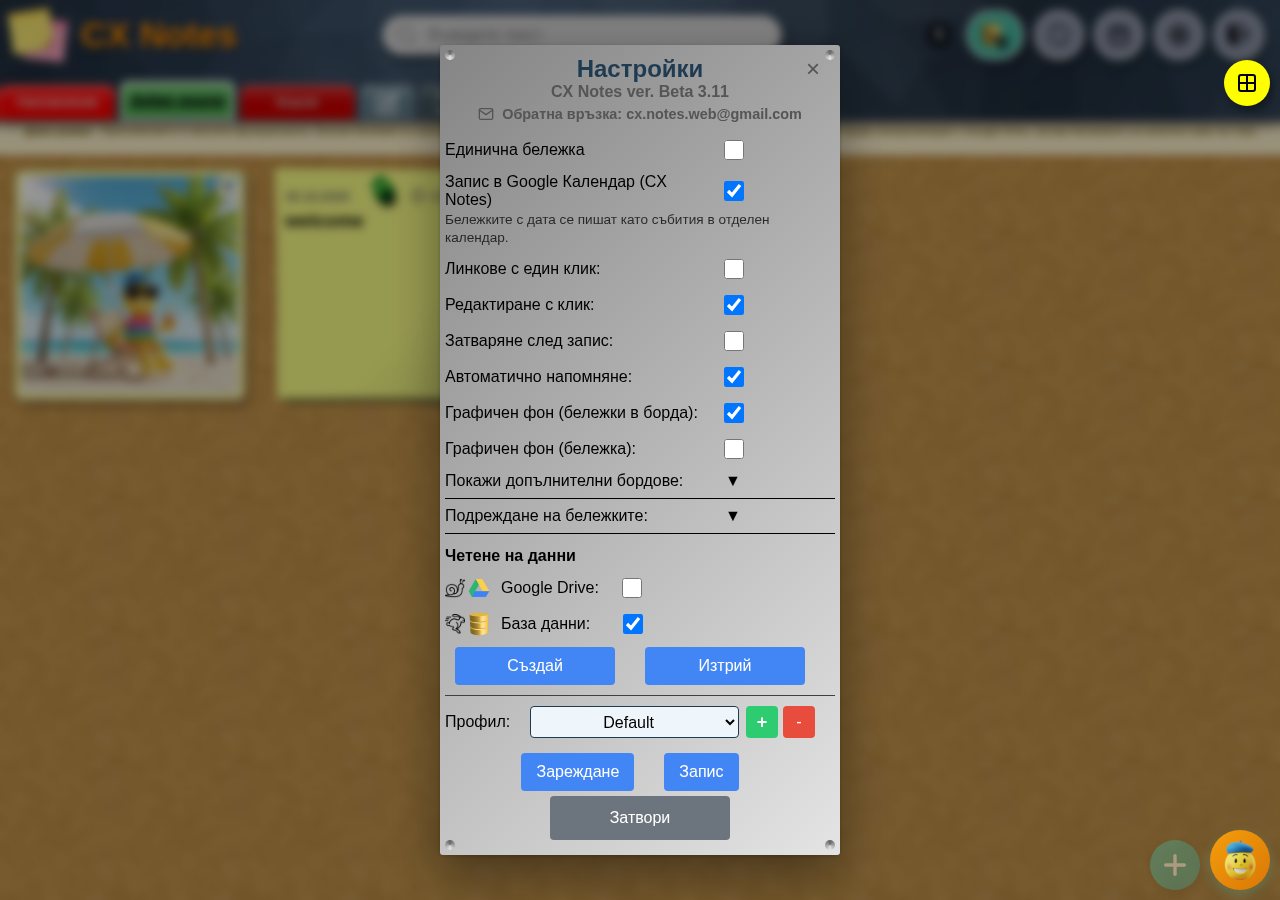
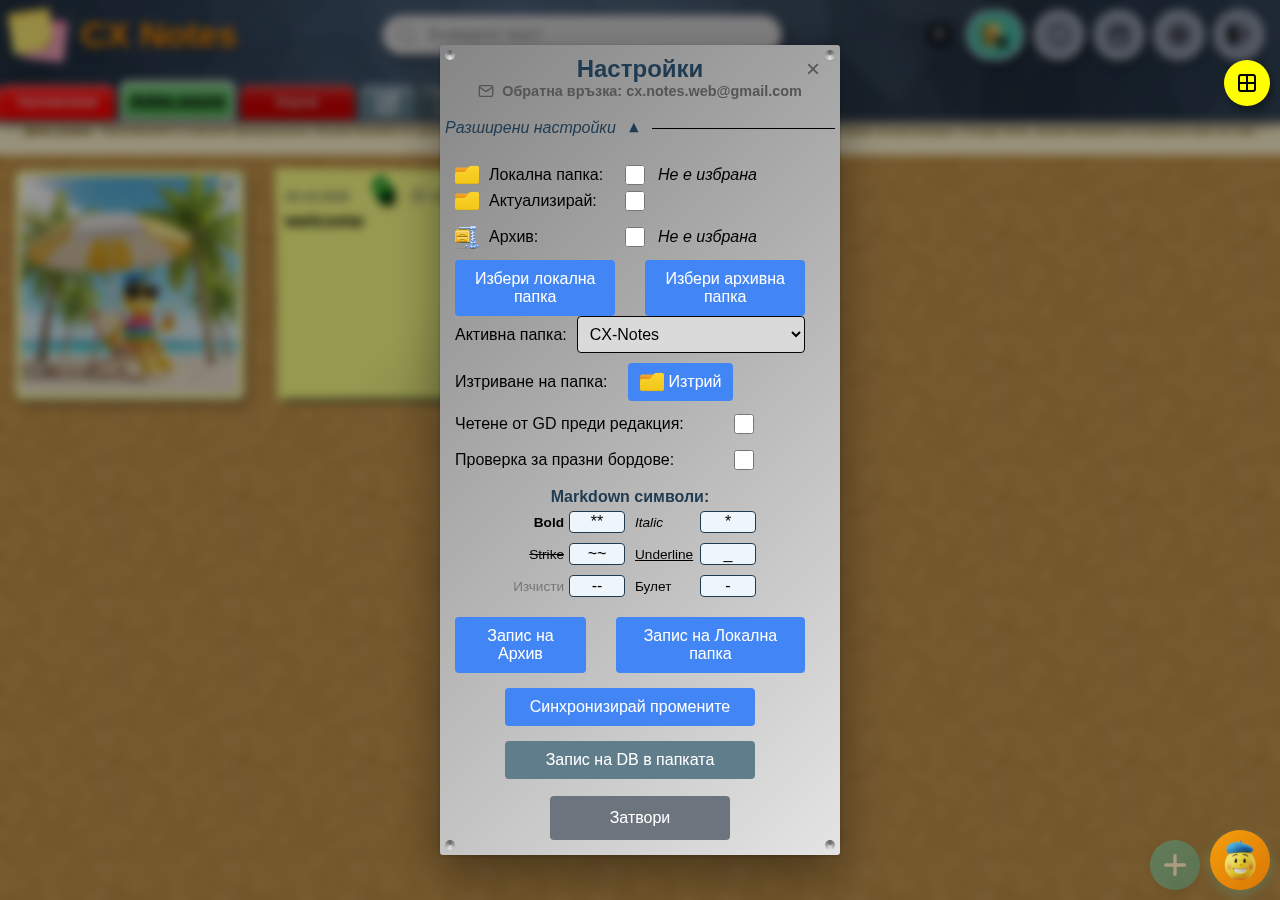
Manual: real advanced settings shot, drop duplicates, add missing gestures
- 10-settings-advanced: taken with the section actually open (Ctrl+click on the title), toast cleared
- removed 06b (byte-identical spare) and 10b (was showing the main list, not the bottom)
- 08-boards-menu now displayed in section 9 instead of only named
- added gestures: assistant transparency, checked-only calculation, scale slider round step,
  Ctrl+click on + for a new board, Ctrl+click on the note title, full screen from the boards square

Changed region(s): [[0.3438, 0.0933, 0.6562, 0.9022]]

diff --git a/docs/manual/CX-Notes-Manual-BG.md b/docs/manual/CX-Notes-Manual-BG.md
@@ -154,7 +154,9 @@
 
 Квадратчето **✎ Нареди** отваря прозореца за борд: избор на борд за редакция, **Изтрий**, **Заглавие**, **Цвят**, **Шрифт**, **Фон** (включително собствена картинка до 3 MB), **Подреди** и превключвател за индивидуална подредба на бележките. Празно заглавие не се приема, както и повторено име.
 
-Менюто с всички бордове (`08-boards-menu.png`) показва плочките в една мрежа — удобно на телефон, когато лентата не се събира.
+Менюто с всички бордове показва плочките в една мрежа — удобно на телефон, когато лентата не се събира.
+
+![Менюто с всички бордове](images/bg/08-boards-menu.png)
 
 ---
 
@@ -204,9 +206,7 @@
 
 В разширените: **Локална папка** (и **Обнови**), **Архив**, избор на папки, **Активна папка** (включително нова папка в Google Drive), **Изтриване на папка** (с изпразване на съдържанието), **Четене от GD преди редакция** и **Проверка за празни бордове**.
 
-Най-долу:
-
-![Долна част на Настройки](images/bg/10b-settings-bottom.png)
+Още в същата секция:
 
 - **Markdown символи** — собствени знаци за удебелен, курсив, задраскан, подчертан, изчистване и булет.
 - **Запис на Архив**, **Запис на Локална папка**, **Синхронизирай промените**, **Запис на DB в папката** — ръчни записи по източници (пазят се предпазни проверки, напр. „Папката не е празна“).
@@ -217,7 +217,7 @@
 
 ![Асистент](images/bg/15-assistant.png)
 
-Кръглият бутон долу вдясно отваря чат с асистента: питаш с думи, той отговаря от базата със знания на приложението и може да изпълни действие (отваряне на настройка, настройка на ред и др.). В заглавната му лента: **↻** презарежда базата със знания, **📑** всички въпроси, **−** минимизира; долу — изчистване и изпращане.
+Кръглият бутон долу вдясно отваря чат с асистента: питаш с думи, той отговаря от базата със знания на приложението и може да изпълни действие (отваряне на настройка, настройка на ред и др.). В заглавната му лента: **↻** презарежда базата със знания, **📑** всички въпроси, **−** минимизира; долу — изчистване и изпращане. С **Ctrl+клик** (на телефон — задържане половин секунда) върху кръглия бутон той става полупрозрачен и не закрива дъската; повторно го връща.
 
 Квадратчето **▶** в лентата с бордовете пуска обиколката отначало; при обиколка върху екрана се появява маска с указания. Затваря се при отваряне на Настройки или с отказа от обиколката.
 
@@ -225,7 +225,7 @@
 
 ![Цял екран](images/bg/16-fullscreen.png)
 
-Квадратчето **⛶** скрива хедъра и лентата, за да остане само дъската; същият бутон връща хедъра. Командите `/7` и `/6` правят същото.
+Квадратчето **⛶** скрива хедъра и лентата, за да остане само дъската; същият бутон връща хедъра. Командите `/7` и `/6` правят същото. Същото прави и **Ctrl+клик** върху плаващото квадратче с иконата на бордовете — сменя режима, без да отваря менюто.
 
 ## 14. Телефон
 
@@ -249,6 +249,12 @@
 - **Плъзгане на карта** мести бележката в борда; **плъзгане на борд** в режим „Нареди“ подрежда бордовете.
 - **Дръжката в долния десен ъгъл на бележката** задава размера на новите бележки; с **Ctrl** — само на тази.
 - **Командите в полето за търсене** (`/?` за списъка).
+- **Ctrl+клик върху „+“** — нов борд, вместо нова бележка.
+- **Ctrl+клик (или задържане) върху „изчисли израз“** в бележка — смята само редовете, отбелязани с **☑**.
+- **Ctrl+клик върху плъзгача за мащаб** в Настройки — мести стойността до следващото кръгло число (10, 20, 30 …).
+- **Ctrl+клик върху заглавието на бележка** в борда — изтрива я; пита за потвърждение и я праща в Кошчето.
+- **Ctrl+клик (или задържане) върху кръглия бутон на Лепчо** — прави го полупрозрачен.
+- **Ctrl+клик върху плаващото квадратче с бордовете** — цял екран, без да отваря менюто.
 - **Демо режим** — `?demo=1` в адреса; `?demo=0` го изключва.
 - **Офлайн старт** — при липса на мрежа приложението предлага работа от вече заредените данни.
 

diff --git a/docs/manual/CX-Notes-Manual-EN.md b/docs/manual/CX-Notes-Manual-EN.md
@@ -154,7 +154,9 @@ The **Trash** tile shows deleted notes. It has a search field (switched on in Se
 
 The **✎ Reorder** square opens the board window: pick a board to edit, **Delete**, **Title**, **Colour**, **Font**, **Background** (including a custom picture up to 3 MB), **Reorder**, and a switch for a custom note order per board. An empty title is refused, and so is a duplicate name.
 
-The all-boards menu (`08-boards-menu.png`) shows the tiles in one grid — convenient on a phone, where the bar does not fit.
+The all-boards menu shows the tiles in one grid — convenient on a phone, where the bar does not fit.
+
+![The all-boards menu](images/en/08-boards-menu.png)
 
 ---
 
@@ -204,9 +206,7 @@ Rows in the main part:
 
 In the advanced part: **Local folder** (with **Update**), **Archive**, folder pickers, **Active folder** (including a new folder in Google Drive), **Delete folder** (with emptying its contents), **Read from GD before edit**, and **Check for empty boards**.
 
-At the bottom:
-
-![Bottom of Settings](images/en/10b-settings-bottom.png)
+Also in the same section:
 
 - **Markdown symbols** — your own characters for bold, italic, strike, underline, clear and bullet.
 - **Save Archive**, **Save Local folder**, **Sync unsaved changes**, **Save DB to folder** — manual writes per source (with safety checks, e.g. "The folder is not empty").
@@ -217,7 +217,7 @@ At the bottom:
 
 ![Assistant](images/en/15-assistant.png)
 
-The round button in the bottom right corner opens a chat with the assistant: you ask in words, it answers from the app's knowledge base and can carry out an action (open a setting, change a row, and so on). Its title bar holds **↻** reload the knowledge base, **📑** all questions, **−** minimise; at the bottom, clear and send.
+The round button in the bottom right corner opens a chat with the assistant: you ask in words, it answers from the app's knowledge base and can carry out an action (open a setting, change a row, and so on). Its title bar holds **↻** reload the knowledge base, **📑** all questions, **−** minimise; at the bottom, clear and send. A **Ctrl+click** on the round button (a half-second hold on a phone) makes it see-through so it does not cover the board; the same again brings it back.
 
 The **▶** square in the board bar restarts the guided tour; during the tour an overlay with instructions appears on the screen. It closes when Settings is opened or the tour is dismissed.
 
@@ -225,7 +225,7 @@ The **▶** square in the board bar restarts the guided tour; during the tour an
 
 ![Full screen](images/en/16-fullscreen.png)
 
-The **⛶** square hides the header and the bar so that only the board is left; the same button brings the header back. The commands `/7` and `/6` do the same.
+The **⛶** square hides the header and the bar so that only the board is left; the same button brings the header back. The commands `/7` and `/6` do the same. So does a **Ctrl+click** on the floating square with the boards icon — it switches the mode without opening the menu.
 
 ## 14. On a phone
 
@@ -249,6 +249,12 @@ On a narrow screen the header folds, the board bar scrolls sideways, and the not
 - **Dragging a card** moves the note within the board; **dragging a board** in the reorder window reorders the boards.
 - **The handle in the note's bottom right corner** sets the size of new notes; with **Ctrl** it resizes only this one.
 - **The commands in the search field** (`/?` for the list).
+- **Ctrl+click on "+"** — a new board instead of a new note.
+- **Ctrl+click (or a hold) on "calculate expression"** in a note — works only on lines marked **☑**.
+- **Ctrl+click on the scale slider** in Settings — moves the value to the next round number (10, 20, 30 …).
+- **Ctrl+click on a note's title** on the board — deletes the note; it asks for confirmation and moves it to the Trash.
+- **Ctrl+click (or a hold) on the assistant's round button** — makes it see-through.
+- **Ctrl+click on the floating boards square** — full screen without opening the menu.
 - **Demo mode** — `?demo=1` in the address; `?demo=0` turns it off.
 - **Offline start** — with no network the app offers to work from the data already loaded.
 
